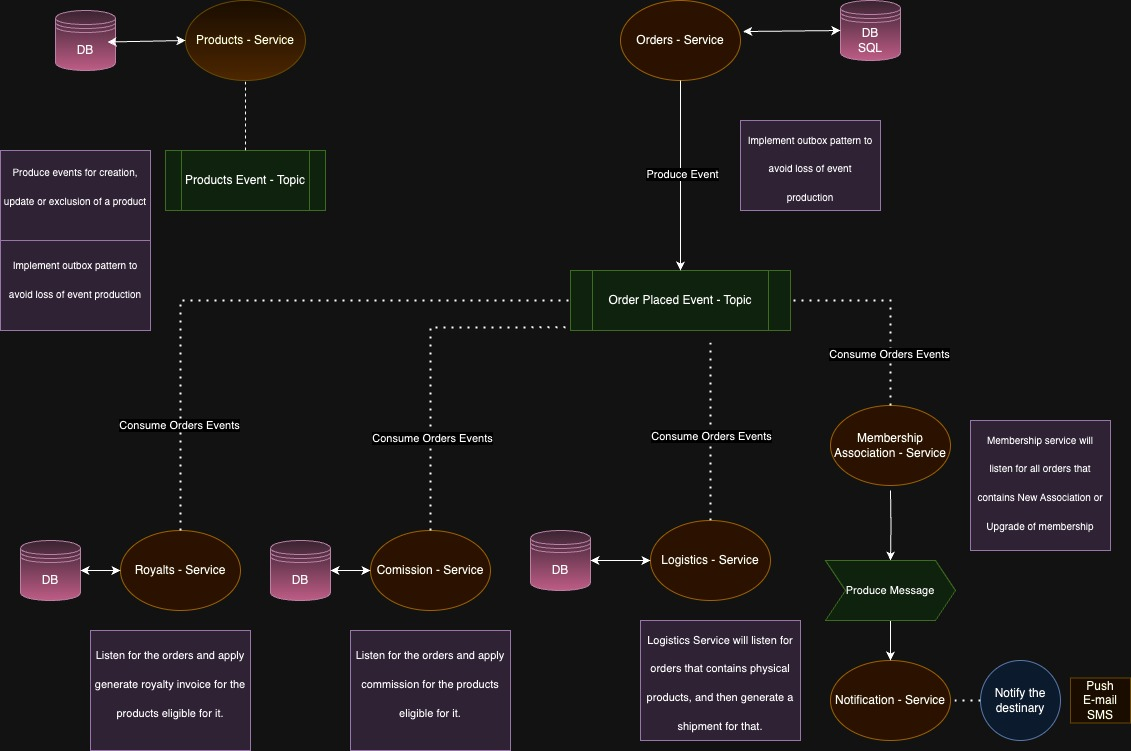
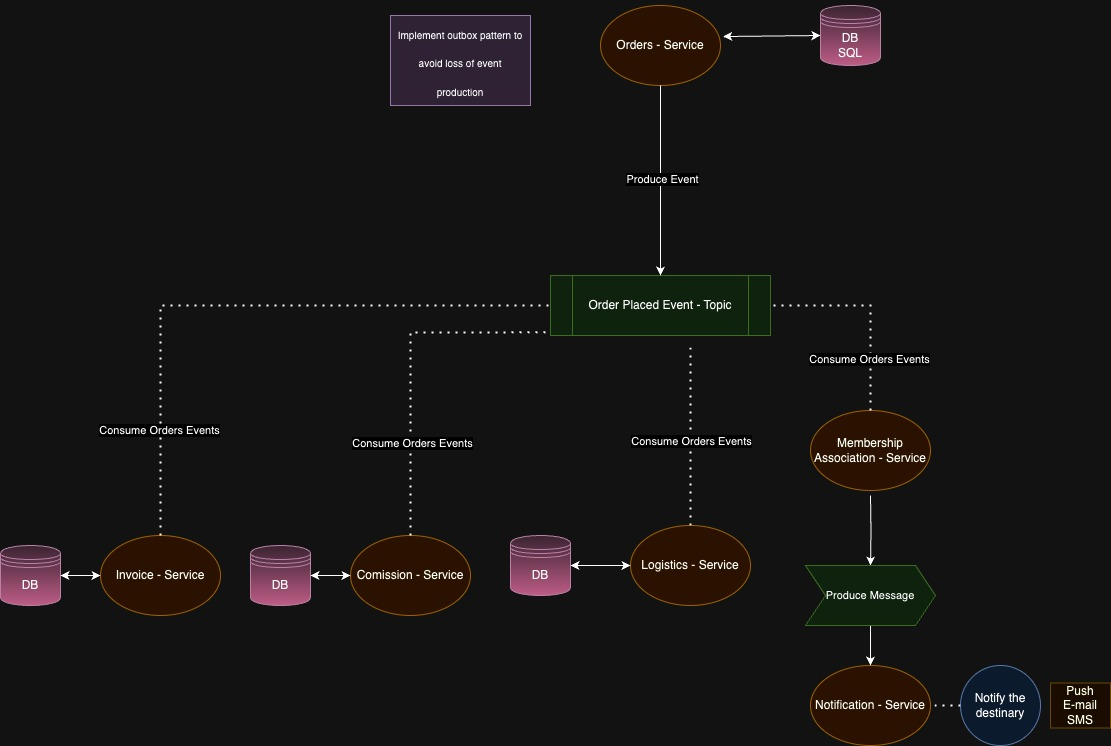
Convention adjustments

diff --git a/src/test/java/com/sample/entrypoint/http/OrdersControllerTest.java b/src/test/java/com/sample/entrypoint/http/OrdersControllerTest.java
@@ -2,10 +2,10 @@ package com.sample.entrypoint.http;
 
 import com.fasterxml.jackson.databind.ObjectMapper;
 import com.sample.domain.orders.usecase.CreateOrderUseCase;
+
 import org.junit.jupiter.api.Test;
 import org.springframework.beans.factory.annotation.Autowired;
-import org.springframework.boot.test.autoconfigure.web.servlet.AutoConfigureMockMvc;
-import org.springframework.boot.test.context.SpringBootTest;
+import org.springframework.boot.test.autoconfigure.web.servlet.WebMvcTest;
 import org.springframework.boot.test.mock.mockito.MockBean;
 import org.springframework.http.MediaType;
 import org.springframework.test.web.servlet.MockMvc;
@@ -18,8 +18,7 @@ import static org.springframework.test.web.servlet.request.MockMvcRequestBuilder
 import static org.springframework.test.web.servlet.result.MockMvcResultMatchers.jsonPath;
 import static org.springframework.test.web.servlet.result.MockMvcResultMatchers.status;
 
-@SpringBootTest
-@AutoConfigureMockMvc
+@WebMvcTest(OrdersController.class)
 class OrdersControllerTest {
 
     @Autowired
@@ -33,7 +32,7 @@ class OrdersControllerTest {
 
 
     @Test
-    void should_return_201_when_receive_a_valid_request_for_order_creation() throws Exception {
+    void shouldReturnCreatedStatusWhenValidOrderRequestIsProvided() throws Exception {
 
         // Given
         when(createOrderUseCase.execute(any())).thenReturn("1");
@@ -45,13 +44,13 @@ class OrdersControllerTest {
                 .content(objectMapper.writeValueAsString(request)));
 
         // Then
-        result.andExpect(status().isAccepted())
+        result.andExpect(status().isCreated())
                 .andExpect(jsonPath("$.orderId").value("1"))
                 .andReturn();
     }
 
     @Test
-    void should_return_400_when_receive_an_invalid_payload_for_order_creation() throws Exception {
+    void shouldReturnBadRequestStatusWhenOrderRequestWithoutItemsIsProvided() throws Exception {
 
         // Given
         var request = gimmeCreationOrderRequestWithoutItems();

diff --git a/src/main/java/com/sample/entrypoint/http/payload/CreationOrderRequest.java b/src/main/java/com/sample/entrypoint/http/payload/CreationOrderRequest.java
@@ -9,25 +9,22 @@ import java.time.Instant;
 import java.util.Set;
 import java.util.stream.Collectors;
 
-public record CreationOrderRequest(
-        @NotEmpty(message = "sellerId cannot be null")
-        String sellerId,
-        @NotEmpty(message = "customer cannot be null")
-        String customerId,
-        @NotEmpty(message = "items should have at least one item")
-        Set<ItemCreationOrderRequest> items,
-        @NotNull(message = "orderDate cannot be null")
-        Instant orderDate,
-        @NotNull(message = "currency cannot be null")
-        String currency
-) {
+public record CreationOrderRequest(@NotEmpty(message = "sellerId cannot be null") String sellerId,
+                                   @NotEmpty(message = "customer cannot be null") String customerId,
+                                   @NotEmpty(message = "items should have at least one item") Set<ItemCreationOrderRequest> items,
+                                   @NotNull(message = "orderDate cannot be null") Instant orderDate,
+                                   @NotNull(message = "currency cannot be null") String currency) {
 
     public CreateOrderCommand toCommand() {
-        final var commandItems = items().stream()
-                .map(itemCreationOrderRequest -> new ItemCreateOrderCommand(itemCreationOrderRequest.quantity(), itemCreationOrderRequest.itemId()))
-                .collect(Collectors.toSet());
+        final var itemCommands = items().stream().map(itemCreationOrderRequest -> new ItemCreateOrderCommand(itemCreationOrderRequest.quantity(), itemCreationOrderRequest.itemId())).collect(Collectors.toSet());
 
-        return new CreateOrderCommand(sellerId(), customerId(), commandItems, orderDate(), currency());
+        return new CreateOrderCommand(
+                sellerId,
+                customerId,
+                itemCommands,
+                Instant.from(orderDate),
+                currency
+        );
     }
 }
 

diff --git a/src/main/java/com/sample/domain/orders/usecase/CreateOrderUseCase.java b/src/main/java/com/sample/domain/orders/usecase/CreateOrderUseCase.java
@@ -11,12 +11,12 @@ import org.springframework.stereotype.Service;
 @Service
 public class CreateOrderUseCase {
 
-    private final OrderRepository orderStorageRepository;
+    private final OrderRepository orderRepository;
     private final OrderNotifier orderNotifier;
 
     public CreateOrderUseCase(final OrderRepository orderRepository,
                               final OrderNotifier orderNotifier) {
-        this.orderStorageRepository = orderRepository;
+        this.orderRepository = orderRepository;
         this.orderNotifier = orderNotifier;
     }
 
@@ -24,7 +24,7 @@ public class CreateOrderUseCase {
     @Transactional
     public String execute(final CreateOrderCommand command) {
         final var order = Order.fromCreateOrderCommand(command);
-        var orderId = orderStorageRepository.saveOrder(order);
+        var orderId = orderRepository.saveOrder(order);
         orderNotifier.notify(new OrderCreatedEvent(orderId));
         return orderId;
     }

diff --git a/src/main/java/com/sample/entrypoint/http/OrdersController.java b/src/main/java/com/sample/entrypoint/http/OrdersController.java
@@ -6,6 +6,7 @@ import com.sample.entrypoint.http.payload.CreationOrderResponse;
 import jakarta.validation.Valid;
 import org.slf4j.Logger;
 import org.slf4j.LoggerFactory;
+import org.springframework.http.HttpStatus;
 import org.springframework.http.ResponseEntity;
 import org.springframework.validation.annotation.Validated;
 import org.springframework.web.bind.annotation.PostMapping;
@@ -29,9 +30,8 @@ public class OrdersController {
     @PostMapping
     public ResponseEntity<CreationOrderResponse> createOrder(@Valid @RequestBody final CreationOrderRequest request) {
         var orderId =  createOrderUseCase.execute(request.toCommand());
-        return ResponseEntity
-                .accepted()
-                .body(new CreationOrderResponse(orderId));
+        return new ResponseEntity<>(new CreationOrderResponse(orderId), HttpStatus.CREATED);
+
     }
 
 

diff --git a/src/main/java/com/sample/dataprovider/producer/KafkaProducer.java b/src/main/java/com/sample/dataprovider/producer/KafkaProducer.java
@@ -32,7 +32,6 @@ public class KafkaProducer implements GenericProducer<Message<GenericRecord>> {
         final var messageId = UUID.fromString(Objects.requireNonNull(value.getHeaders().get(MessageHeaders.ID)).toString());
         logger.info("Sending message to topic [ {} ], key [ {} ], messageId[ {} ]", topic, key, messageId);
         kafkaTemplate.send(value);
-
     }
 
 }

diff --git a/src/main/java/com/sample/domain/membership/usecase/UpgradeMembershipUseCase.java b/src/main/java/com/sample/domain/membership/usecase/UpgradeMembershipUseCase.java
@@ -1,6 +1,5 @@
 package com.sample.domain.membership.usecase;
 
-import com.sample.dataprovider.repository.MembershipRepositoryImpl;
 import com.sample.domain.membership.dataprovider.event.MembershipNotifier;
 import com.sample.domain.membership.dataprovider.repository.MembershipRepository;
 import org.slf4j.Logger;

diff --git a/src/test/java/com/sample/domain/orders/usecase/CreateOrderUseCaseTest.java b/src/test/java/com/sample/domain/orders/usecase/CreateOrderUseCaseTest.java
@@ -34,7 +34,7 @@ class CreateOrderUseCaseTest {
     private ArgumentCaptor<Order> orderCaptor;
 
     @Test
-    void should_execute_creation_order() {
+    void should_create_order_with_success() {
 
         // Given
         var command = gimmeValidCreateOrderCommand();

diff --git a/src/main/java/com/sample/domain/membership/dataprovider/repository/MembershipRepository.java b/src/main/java/com/sample/domain/membership/dataprovider/repository/MembershipRepository.java
@@ -2,7 +2,6 @@ package com.sample.domain.membership.dataprovider.repository;
 
 public interface MembershipRepository {
 
-
     void save();
 
 }

diff --git a/README.md b/README.md
@@ -5,7 +5,9 @@ This is a sample application showcasing the use of Clean Architecture with Domai
 ## Table of Contents
 
 - [Introduction](#introduction)
-- [Architecture Definition](#architecture-definition)
+- [Architecture Definition V1](#architecture-definition)
+- [Architecture Definition V2](#architecture-definition-bpmn)
+  - [Sequence Diagrams](#sequence-diagrams)
 - [Prerequisites](#prerequisites)
 - [Setup](#setup)
     - [Clone the repository](#clone-the-repository)
@@ -21,6 +23,16 @@ This application serves as a template for building scalable and maintainable Jav
 ## Architecture Definition
 
 ![Diagram of components](architecture_definition.jpg)
+
+## Architecture Definition V2 - BPMN
+
+![Diagram of components](architecture_definition_bpmn.png)
+
+### Sequence Diagrams
+
+![Diagram Initial Order](diagram_01.png)
+![Diagram Process Membership Order](diagram_02.png)
+![Diagram Process Physical Order](diagram_03.png)
 
 
 ## Prerequisites
